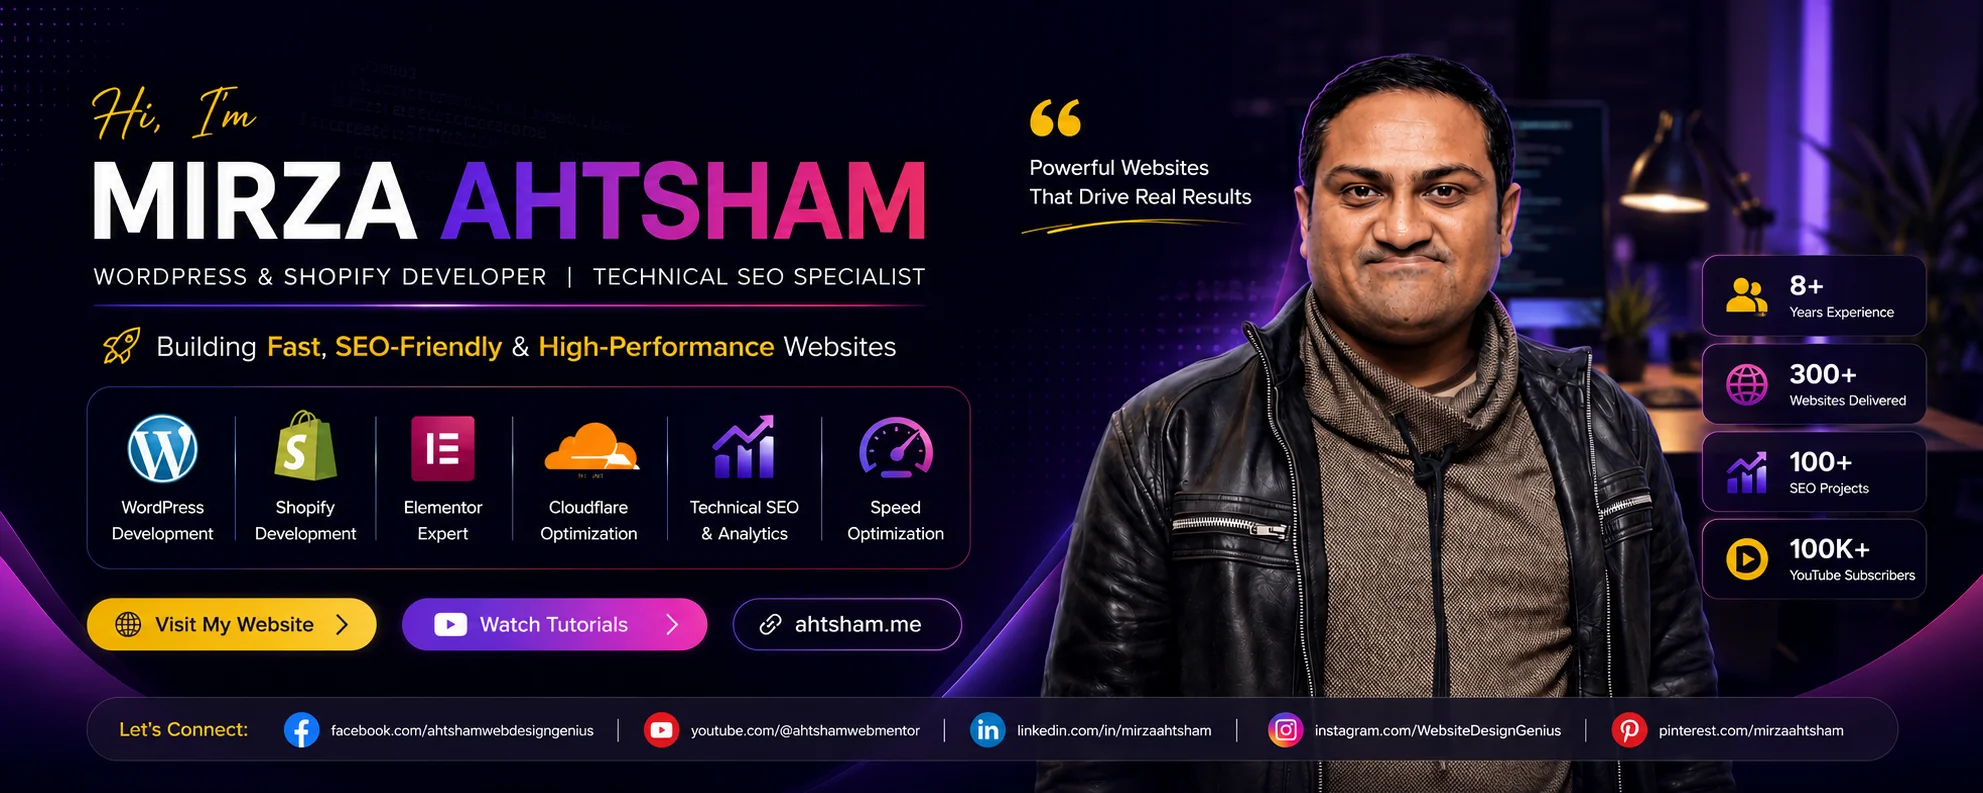
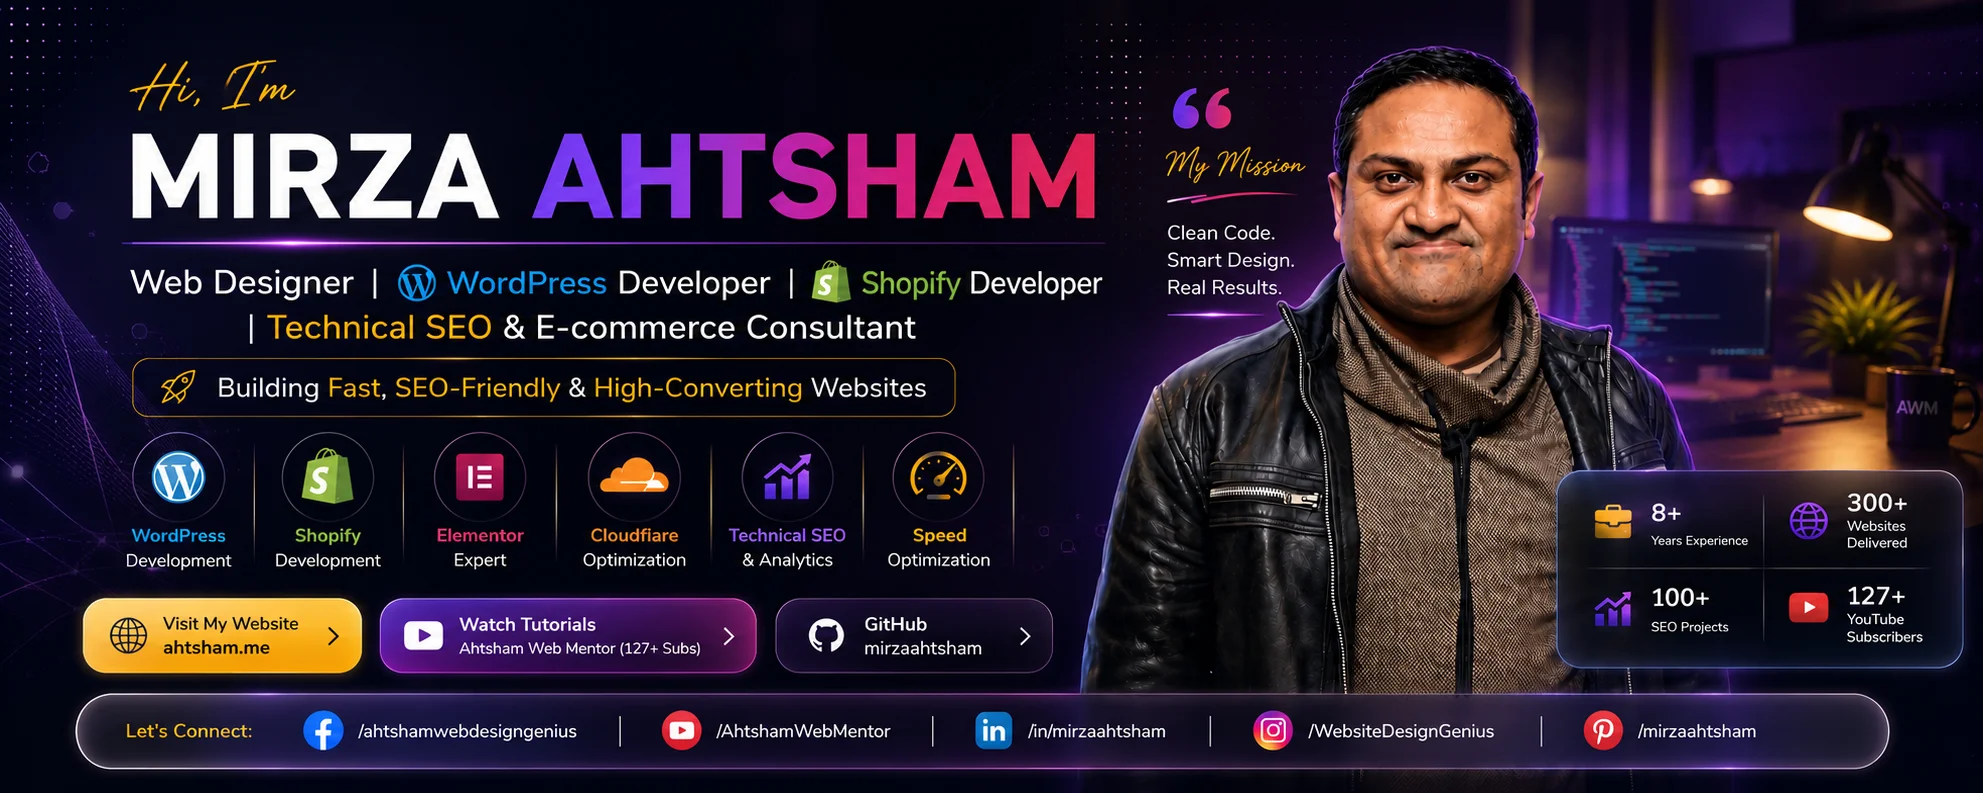
Minor Updates and Fix some Badges Issues.

diff --git a/Old-README.md b/Old-README.md
@@ -1,0 +1,116 @@
+### Hi there, I'm Mirza Ahtsham, Your Web Mentor aka [Web Design Genius][website] 👋
+>#### Become a Pro in Hosting, WordPress & Web Design with [Ahtsham Web Mentor](https://learnwith.ahtsham.me)
+
+[![Website](https://img.shields.io/website?label=ahtsham.me&style=for-the-badge&url=https%3A%2F%2Fportfolio-b7s.pages.dev)](https://portfolio-b7s.pages.dev)
+[![Discord](https://img.shields.io/discord/1344346817109819536?label=Discord)](https://discord.gg/4RnpzDGv)
+[![GitHub Repo stars](https://img.shields.io/github/stars/mirzaahtsham?style=social)](https://github.com/mirzaahtsham)
+![GitHub Follow](https://img.shields.io/github/followers/mirzaahtsham.svg?style=social&label=Follow)
+![X (formerly Twitter) Follow](https://img.shields.io/twitter/follow/webdesignwala)
+![YouTube Channel Subscribers](https://img.shields.io/youtube/channel/subscribers/UCECmARzL9NsJiDpe01t6PWw)
+![YouTube Channel Views](https://img.shields.io/youtube/channel/views/UCECmARzL9NsJiDpe01t6PWw)
+<!-- [![OpenSSF Scorecard](https://api.scorecard.dev/projects/github.com/Stirling-Tools/Stirling-PDF/badge)](https://scorecard.dev/viewer/?uri=github.com/Stirling-Tools/Stirling-PDF) -->
+## I'm a Web Designer & Developer, Researcher, a Cook & Good Husband 🤣!!!
+
+- 🔭 I’m currently working on Next Js, Tailwind CSS & Cloudflare...
+- 🌱 I’m currently learning everything 🤣
+- 👯 I’m looking to collaborate with other content creators
+- 🥅 2025 Goals: Contribute more to Open Source projects
+- ⚡ Fun fact: I love to cook
+
+### Connect with me:
+
+[<img align="left" alt="web-design-genius" width="22px" src="https://img.icons8.com/?size=100&id=PfmQUI56Ji0D&format=png&color=000000" />][website]
+[<img align="left" alt="web-design-genius | Twitter" width="22px" src="https://img.icons8.com/?size=100&id=zXhRTdxWEKE5&format=png&color=000000" />][twitter]
+[<img align="left" alt="web-design-genius | Facebook" width="22px" src="https://img.icons8.com/?size=100&id=CtrV2SV33rD9&format=png&color=000000" />][facebook]
+[<img align="left" alt="web-design-genius | LinkedIn" width="22px" src="https://img.icons8.com/?size=100&id=kFJzAZryEscq&format=png&color=000000" />][linkedin]
+[<img align="left" alt="web-design-genius | Instagram" width="22px" src="https://img.icons8.com/?size=100&id=ZRiAFreol5mE&format=png&color=000000" />][instagram]
+[<img align="left" alt="web-design-genius | Youtube" width="22px" src="https://img.icons8.com/?size=100&id=19318&format=png&color=000000" />][youtube]
+[<img align="left" alt="web-design-genius | Skype" width="22px" src="https://img.icons8.com/?size=100&id=63204&format=png&color=000000" />][skype]
+
+<br />
+
+### Languages and Tools:
+
+<img align="left" alt="Visual Studio Code" width="26px" src="https://raw.githubusercontent.com/github/explore/80688e429a7d4ef2fca1e82350fe8e3517d3494d/topics/visual-studio-code/visual-studio-code.png" />
+<img align="left" alt="HTML5" width="26px" src="https://raw.githubusercontent.com/github/explore/80688e429a7d4ef2fca1e82350fe8e3517d3494d/topics/html/html.png" />
+<img align="left" alt="CSS3" width="26px" src="https://raw.githubusercontent.com/github/explore/80688e429a7d4ef2fca1e82350fe8e3517d3494d/topics/css/css.png" />
+<img align="left" alt="React" width="26px" src="https://raw.githubusercontent.com/github/explore/80688e429a7d4ef2fca1e82350fe8e3517d3494d/topics/react/react.png" />
+<img align="left" alt="Tailwind CSS" width="26px" src="https://img.icons8.com/?size=100&id=x7XMNGh2vdqA&format=png&color=000000" />
+<img align="left" alt="Node.js" width="26px" src="https://raw.githubusercontent.com/github/explore/80688e429a7d4ef2fca1e82350fe8e3517d3494d/topics/nodejs/nodejs.png" />
+<img align="left" alt="MongoDB" width="26px" src="https://img.icons8.com/?size=100&id=74402&format=png&color=000000" />
+<img align="left" alt="Git" width="26px" src="https://img.icons8.com/?size=100&id=en2FZIAZdquE&format=png&color=000000" />
+<img align="left" alt="GitHub" width="26px" src="https://img.icons8.com/?size=100&id=efFfwotdkiU5&format=png&color=000000" />
+<img align="left" alt="Terminal" width="26px" src="https://raw.githubusercontent.com/github/explore/80688e429a7d4ef2fca1e82350fe8e3517d3494d/topics/terminal/terminal.png" />
+<img align="left" alt="Wordpress" width="26px" src="https://img.icons8.com/?size=100&id=aMLZmDlq6SvC&format=png&color=000000" />
+<img align="left" alt="Shopify" width="26px" src="https://img.icons8.com/?size=100&id=uSHYbs6PJfMT&format=png&color=000000" />
+<img align="left" alt="Google Business" width="26px" src="https://img.icons8.com/?size=100&id=4y5FyfJdxJ3h&format=png&color=000000" />
+<img align="left" alt="Google Search Console" width="26px" src="https://img.icons8.com/?size=100&id=30844&format=png&color=000000" />
+<img align="left" alt="Google Fonts" width="26px" src="https://img.icons8.com/?size=100&id=uY6QHPV8g5bd&format=png&color=000000" />
+<img align="left" alt="Google Cloud Console" width="26px" src="https://img.icons8.com/?size=100&id=20774&format=png&color=000000" />
+<img align="left" alt="Code Pin" width="26px" src="https://img.icons8.com/?size=100&id=20795&format=png&color=000000" />
+<img align="left" alt="Cloudflare" width="26px" src="https://registry.npmmirror.com/@lobehub/icons-static-png/1.24.0/files/dark/cloudflare-color.png" />
+
+<br />
+<br />
+
+---
+
+### 🚀 Passion for Web Development & Design  
+Hey there! I'm passionate about creating stunning, high-performance websites and sharing my knowledge with the community.  
+If my work has helped or inspired you, consider supporting me. Your support fuels my creativity and helps me build more awesome projects!  
+
+[![Your Support Matters! ✨](https://img.buymeacoffee.com/button-api/?text=Your+Support+Matters!&emoji=✨&slug=mirzaahtsham&button_colour=FFDD00&font_colour=000000&font_family=Inter&outline_colour=000000&coffee_colour=ffffff)](https://www.buymeacoffee.com/mirzaahtsham)  
+
+**Every ☕ or 🍕 you buy keeps me coding and sharing more valuable resources. Thanks for being amazing!** 💙  
+
+---
+
+### 📕 Latest Blog Posts
+
+<!-- BLOG-POST-LIST:START -->
+| SR# | 📑 Articles |
+|--------|-------------|
+| **1** | [Customizing Contact Form 7 in WordPress with Web Design Genius](https://www.linkedin.com/pulse/customizing-contact-form-7-wordpress-web-design-mirza-ahtsham-blcif) |
+| **2** | [Google Search Console (GSC): A Complete Guide for Beginners](https://www.linkedin.com/pulse/google-search-console-gsc-complete-guide-beginners-mirza-ahtsham-spflf/) |
+| **3** | [How to Set Up Contact Form 7 in WordPress (Step-by-Step Guide)](https://www.linkedin.com/pulse/how-set-up-contact-form-7-wordpress-step-by-step-mirza-ahtsham-suwef/) |
+| **4** | [Web Development Using WordPress and Elementor: A Complete Guide](https://www.linkedin.com/pulse/web-development-using-wordpress-elementor-complete-mirza-ahtsham-le4bf/) |
+<!-- BLOG-POST-LIST:END -->
+<details>
+<summary>:newspaper: more blog Coming soon...</summary>
+</details>
+
+<details>
+  <summary>:zap: GitHub Stats</summary>
+
+  ![mirzaahtsham's Top Languages](https://github-readme-stats.vercel.app/api/top-langs/?username=mirzaahtsham&theme=vue-dark&show_icons=true&hide_border=false&layout=compact)
+
+</details>
+
+
+<!-- [![My cool gif](https://media2.giphy.com/media/v1.Y2lkPTc5MGI3NjExZTg3djdrZHhxc3dvc2V4OGprNGJvbTIweHNrb2x6ZHZmeTlvYjF5dCZlcD12MV9pbnRlcm5hbF9naWZfYnlfaWQmY3Q9cw/513lZvPf6khjIQFibF/giphy.gif)](https://www.buymeacoffee.com/invite/mirzaahtsham) -->
+
+
+<!--
+**mirzaahtsham/mirzaahtsham** is a ✨ _special_ ✨ repository because its `README.md` (this file) appears on your GitHub profile.
+
+Here are some ideas to get you started:
+
+- 🔭 I’m currently working on ...
+- 🌱 I’m currently learning ...
+- 👯 I’m looking to collaborate on ...
+- 🤔 I’m looking for help with ...
+- 💬 Ask me about ...
+- 📫 How to reach me: ...
+- 😄 Pronouns: ...
+- ⚡ Fun fact: ...
+-->
+
+Last Updated: Feb 23, 2025
+
+[website]: https://ahtsham.me
+[twitter]: https://twitter.com/websdesignwala/
+[facebook]: https://facebook.com/websitesdesignwala/
+[instagram]: https://instagram.com/websdesignwala/
+[youtube]: https://www.youtube.com/channel/UCECmARzL9NsJiDpe01t6PWw??sub_confirmation=1
+[linkedin]: https://www.linkedin.com/in/mirzaahtsham/
+[skype]: https://join.skype.com/invite/jeVUxggjiQxz

diff --git a/README.md b/README.md
@@ -13,10 +13,21 @@ I build fast, responsive, SEO-friendly and high-converting websites using WordPr
 </p>
 
 <p align="center">
-  <a href="https://ahtsham.me" target="_blank">Website</a> •
-  <a href="https://www.linkedin.com/in/mirzaahtsham/" target="_blank">LinkedIn</a> •
-  <a href="https://www.youtube.com/channel/UCECmARzL9NsJiDpe01t6PWw" target="_blank">YouTube</a> •
-  <a href="https://www.facebook.com/ahtshamwebdesigngenius/" target="_blank">Facebook</a>
+  <a href="https://ahtsham.me" target="_blank">
+    <img src="https://img.icons8.com/fluency/48/domain.png" width="28" alt="Website" />
+  </a>
+  <a href="https://www.linkedin.com/in/mirzaahtsham/" target="_blank">
+    <img src="https://img.icons8.com/color/48/linkedin.png" width="28" alt="LinkedIn" />
+  </a>
+  <a href="https://www.youtube.com/channel/UCECmARzL9NsJiDpe01t6PWw" target="_blank">
+    <img src="https://img.icons8.com/color/48/youtube-play.png" width="28" alt="YouTube" />
+  </a>
+  <a href="https://www.facebook.com/ahtshamwebdesigngenius/" target="_blank">
+    <img src="https://img.icons8.com/color/48/facebook-new.png" width="28" alt="Facebook" />
+  </a>
+  <a href="https://www.instagram.com/WebsiteDesignGenius/" target="_blank">
+    <img src="https://img.icons8.com/color/48/instagram-new.png" width="28" alt="Instagram" />
+  </a>
 </p>
 
 <p align="center">
@@ -71,6 +82,7 @@ I am a Web Designer, WordPress & Shopify Developer and Technical SEO-focused web
 ![CSS3](https://img.shields.io/badge/CSS3-1572B6?style=for-the-badge&logo=css&logoColor=white)
 ![JavaScript](https://img.shields.io/badge/JavaScript-F7DF1E?style=for-the-badge&logo=javascript&logoColor=000000)
 ![Tailwind CSS](https://img.shields.io/badge/Tailwind_CSS-06B6D4?style=for-the-badge&logo=tailwindcss&logoColor=white)
+![PHP](https://img.shields.io/badge/PHP-777BB4?style=for-the-badge&logo=php&logoColor=white)
 ![Next.js](https://img.shields.io/badge/Next.js-000000?style=for-the-badge&logo=nextdotjs&logoColor=white)
 
 ### WordPress Tools
@@ -101,6 +113,10 @@ I am a Web Designer, WordPress & Shopify Developer and Technical SEO-focused web
 
 ![PayPal](https://img.shields.io/badge/PayPal-003087?style=for-the-badge&logo=paypal&logoColor=white)
 ![Stripe](https://img.shields.io/badge/Stripe-635BFF?style=for-the-badge&logo=stripe&logoColor=white)
+![Shop Pay](https://img.shields.io/badge/Shop%20Pay-5A31F4?style=for-the-badge&logo=shopify&logoColor=white)
+![Tabby](https://img.shields.io/badge/Tabby-3B0764?style=for-the-badge)
+![GoPayFast](https://img.shields.io/badge/GoPayFast-111827?style=for-the-badge)
+![Network International](https://img.shields.io/badge/Network%20International-0F172A?style=for-the-badge)
 ![Google Workspace](https://img.shields.io/badge/Google_Workspace-4285F4?style=for-the-badge&logo=googleworkspace&logoColor=white)
 ![Slack](https://img.shields.io/badge/Slack-4A154B?style=for-the-badge&logo=slack&logoColor=white)
 ![Trello](https://img.shields.io/badge/Trello-0052CC?style=for-the-badge&logo=trello&logoColor=white)
@@ -198,8 +214,8 @@ Topics I cover:
 ## ⚡ GitHub Stats
 
 <p align="center">
-  <img src="https://github-readme-stats.vercel.app/api?username=mirzaahtsham&show_icons=true&theme=tokyonight&hide_border=true" width="49%" alt="GitHub Stats" />
-  <img src="https://github-readme-stats.vercel.app/api/top-langs/?username=mirzaahtsham&layout=compact&theme=tokyonight&hide_border=true" width="49%" alt="Top Languages" />
+  <img src="https://github-readme-stats.vercel.app/api?username=mirzaahtsham&show_icons=true&theme=tokyonight&hide_border=true&cache_seconds=1800" width="49%" alt="GitHub Stats" />
+  <img src="https://github-readme-stats.vercel.app/api/top-langs/?username=mirzaahtsham&layout=compact&theme=tokyonight&hide_border=true&cache_seconds=1800" width="49%" alt="Top Languages" />
 </p>
 
 ---
@@ -210,7 +226,7 @@ If my tutorials, resources or projects helped you, you can support my work here:
 
 <p>
   <a href="https://www.buymeacoffee.com/mirzaahtsham" target="_blank">
-    <img src="https://img.buymeacoffee.com/button-api/?text=Buy me a coffee&emoji=☕&slug=mirzaahtsham&button_colour=FFDD00&font_colour=000000&font_family=Inter&outline_colour=000000&coffee_colour=ffffff" alt="Buy Me A Coffee" />
+    <img src="https://img.buymeacoffee.com/button-api/?text=Your+Support+Matters!&emoji=✨&slug=mirzaahtsham&button_colour=FFDD00&font_colour=000000&font_family=Inter&outline_colour=000000&coffee_colour=ffffff)](https://www.buymeacoffee.com/mirzaahtsham" alt="Buy Me A Coffee" />
   </a>
 </p>
 
